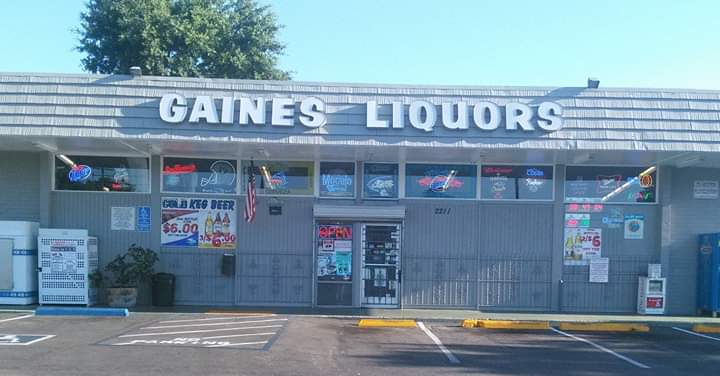
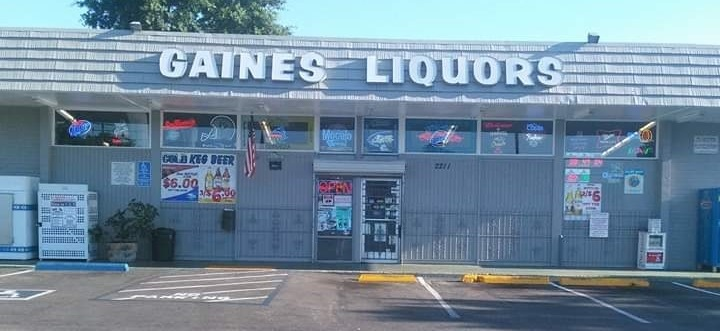
portrait and landscape set up

diff --git a/index.html b/index.html
@@ -13,60 +13,103 @@
   body,h1,h2,h3,h4,h5,h6 {font-family: "Amatic SC", sans-serif}
   .menu {display: none}
   .bgimg {
-    background-repeat: no-repeat;
-    background-size: cover;
-    background-image: url("slickliqpic.jpg");
-    background-size: cover;
-    background-repeat: no-repeat;
-    background-attachment: fixed;
-    background-position: center center;
-    min-height: 90%;
-    width:100%;
-  
-    @media (max-width: 480px) {
-    body {
-        background-image: url(liqpic.jpg);
-        background-repeat: no-repeat;
-        background-size: cover;
-        background-size: cover;
-        background-repeat: no-repeat;
-        background-attachment: fixed;
-        background-position: center center;
-        min-height: 90%;
-        width:100%;
-    }
-}
-
-@media (min-width: 481px) and (max-width: 1024px) {
-    body {
-        background-image: url(liqpic.jpg);
-        background-repeat: no-repeat;
-        background-size: cover;
-        background-size: cover;
-        background-repeat: no-repeat;
-        background-attachment: fixed;
-        background-position: center center;
-        min-height: 90%;
-        width:100%;
-    }
-}
-
-@media (min-width: 1025px) {
-    body {
-	    background-image: url(liqpic.jpg);
       background-repeat: no-repeat;
       background-size: cover;
+      /* background-image: url("slickliqpic.jpg"); */
       background-size: cover;
       background-repeat: no-repeat;
       background-attachment: fixed;
       background-position: center center;
       min-height: 90%;
       width:100%;
-   }
-}
+      display: flex;
+      @media (orientation: landscape) {
+        body {
+          background-image: url("liqpic.jpg");
+          flex-direction: row;
+        }
+      }
 
-  
+      @media (orientation: portrait) {
+        body {
+          background-image: url("slickliqpic.jpg");
+          flex-direction: column;
+      }
+    }
+
   }
+
+  /* @media (max-width: 96px) {
+          body {
+              background-image: url(liqpic.jpg);
+              background-repeat: no-repeat;
+              background-size: cover;
+              background-size: cover;
+              background-repeat: no-repeat;
+              background-attachment: fixed;
+              background-position: center center;
+              min-height: 90%;
+              width:100%;
+              
+          }
+        }
+
+      @media (max-width: 287px) {
+        body {
+            background-image: url(slickliqpic.jpg);
+            background-repeat: no-repeat;
+            background-size: cover;
+            background-size: cover;
+            background-repeat: no-repeat;
+            background-attachment: fixed;
+            background-position: center center;
+            min-height: 90%;
+            width:100%;
+          }
+        }
+ 
+      @media (max-width: 480px) {
+        body {
+            background-image: url(liqpic.jpg);
+            background-repeat: no-repeat;
+            background-size: cover;
+            background-size: cover;
+            background-repeat: no-repeat;
+            background-attachment: fixed;
+            background-position: center center;
+            min-height: 90%;
+            width:100%;   
+          }
+        }
+    
+
+      @media (min-width: 481px) and (max-width: 1024px) {
+        body {
+            background-image: url(liqpic.jpg);     
+            background-repeat: no-repeat;
+            background-size: cover;
+            background-size: cover;
+            background-repeat: no-repeat;
+            background-attachment: fixed;
+            background-position: center center;
+            min-height: 90%;
+            width:100%;
+          }
+        }
+
+      @media (min-width: 1025px) {
+        body {
+            background-image: url(liqpic.jpg);
+            background-repeat: no-repeat;
+            background-size: cover;
+            background-size: cover;
+            background-repeat: no-repeat;
+            background-attachment: fixed;
+            background-position: center center;
+            min-height: 100%;
+            width:100%;
+          }
+        } */
 
 </style>
 </head>
